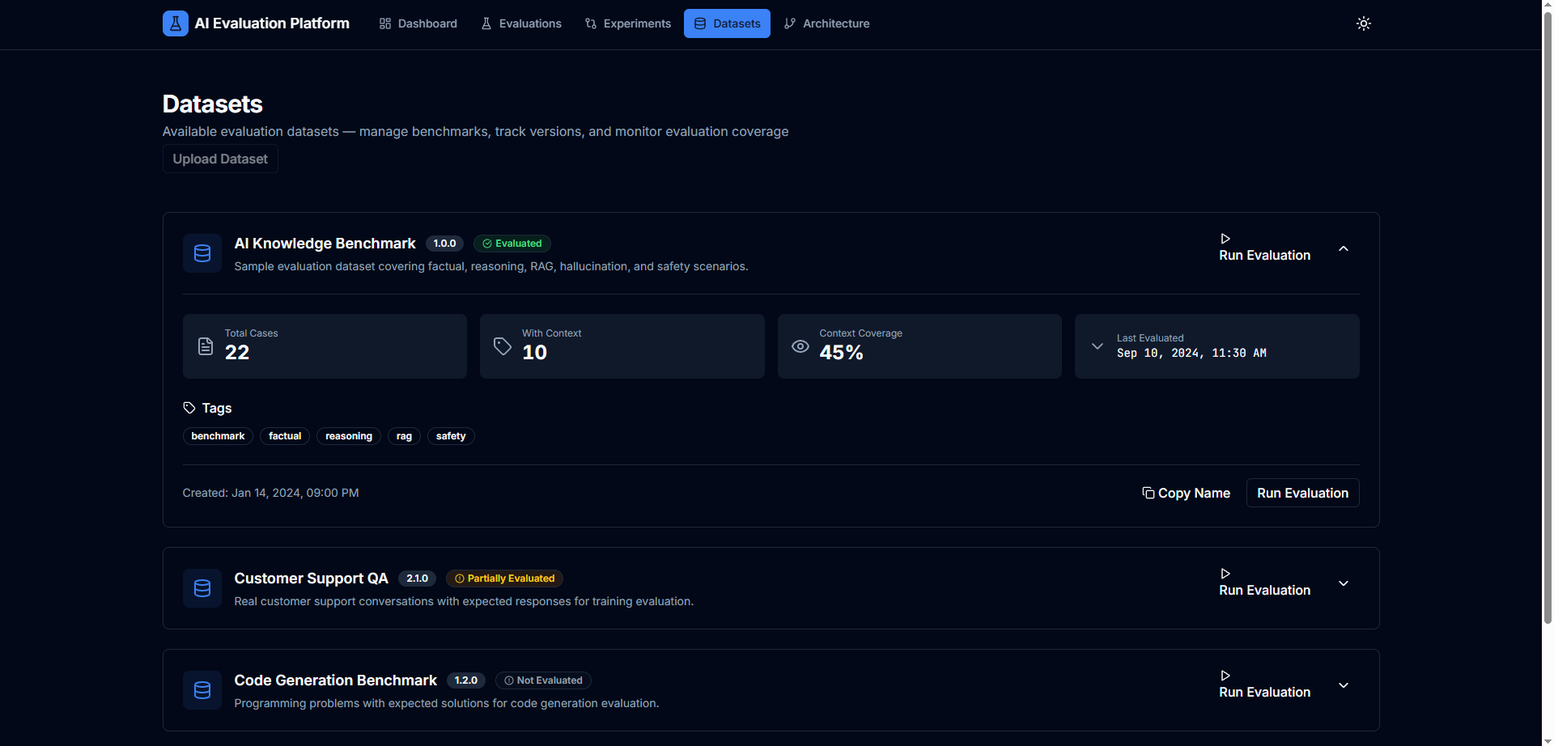
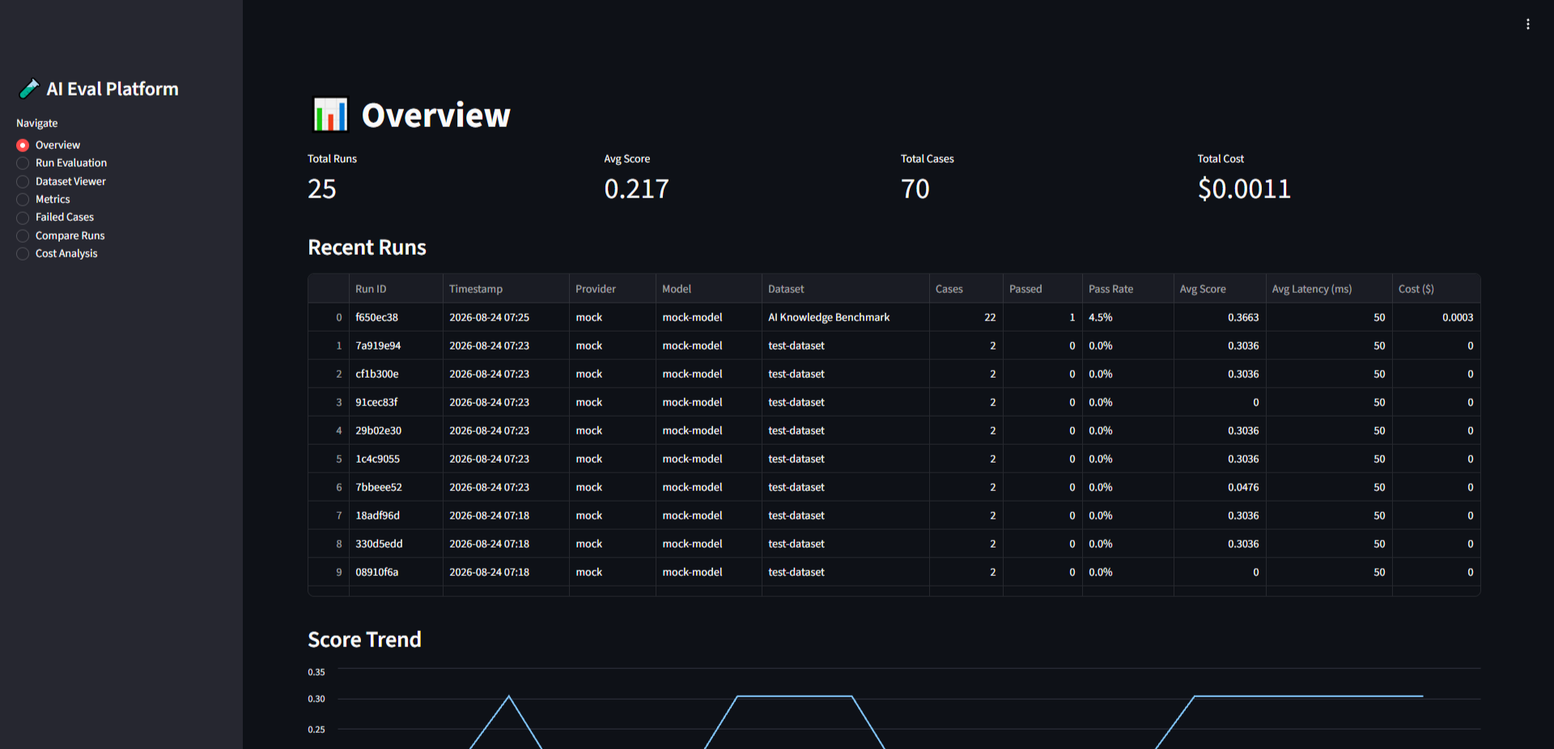
Add files via upload

diff --git a/index.html b/index.html
@@ -773,6 +773,7 @@
         <a href="#evidence">Evidence</a>
         <a href="#about">About me</a>
         <a href="#focus">Where I build</a>
+        <a href="#tech-stack">Tools I use</a>
         <a href="#projects">Selected work</a>
         <a href="#contact">Let’s connect</a>
       </div>
@@ -827,66 +828,12 @@
       </div>
     </section>
 
-    <section id="evidence" class="evidence-section">
-      <div class="container">
-        <div class="section-heading reveal">
-          <h2>Engineering evidence</h2>
-          <p>Signals from running project interfaces, not a list of claims. Each snapshot answers what was measured and where it came from.</p>
-        </div>
-        <div class="evidence-grid">
-          <article class="evidence-card reveal">
-            <div class="evidence-card-header">
-              <div>
-                <h3>AI Evaluation Platform</h3>
-                <p>Dataset-driven runs with score, latency, and cost visibility.</p>
-              </div>
-              <span class="evidence-icon" aria-hidden="true"><i class="fa-solid fa-chart-line"></i></span>
-            </div>
-            <div class="evidence-card-body">
-              <div class="evidence-metrics">
-                <div class="evidence-metric"><strong>25</strong><span>total runs</span></div>
-                <div class="evidence-metric"><strong>70</strong><span>total cases</span></div>
-                <div class="evidence-metric"><strong>0.217</strong><span>average score</span></div>
-                <div class="evidence-metric"><strong>$0.0011</strong><span>total cost</span></div>
-              </div>
-              <p class="evidence-caption"><strong>Visible in the dashboard:</strong> recent runs, provider/model, dataset, pass rate, average latency, score trend, failed cases, comparisons, and cost analysis.</p>
-              <div class="proof-bar"><span><i class="fa-solid fa-database"></i> SQLite history</span><span><i class="fa-solid fa-file-export"></i> JSON / CSV / Markdown</span><span><i class="fa-solid fa-vial"></i> 76 tests passing</span></div>
-            </div>
-          </article>
-          <article class="evidence-card reveal">
-            <div class="evidence-card-header">
-              <div>
-                <h3>Robot Vision System</h3>
-                <p>Browser-based perception with detection, tracking, and telemetry.</p>
-              </div>
-              <span class="evidence-icon" aria-hidden="true"><i class="fa-solid fa-eye"></i></span>
-            </div>
-            <div class="evidence-card-body">
-              <div class="evidence-metrics">
-                <div class="evidence-metric"><strong>35 ms</strong><span>inference latency</span></div>
-                <div class="evidence-metric"><strong>7.3</strong><span>pipeline FPS</span></div>
-                <div class="evidence-metric"><strong>3</strong><span>objects detected</span></div>
-                <div class="evidence-metric"><strong>3</strong><span>objects tracked</span></div>
-              </div>
-              <p class="evidence-caption"><strong>Visible in the live dashboard:</strong> COCO-SSD inference, centroid tracking, confidence scores, robot battery, wheel odometry, and webcam/video input.</p>
-              <div class="proof-bar"><span><i class="fa-solid fa-video"></i> Local video input</span><span><i class="fa-solid fa-wave-square"></i> Real-time browser inference</span><span><i class="fa-solid fa-microchip"></i> Perception prototype</span></div>
-            </div>
-          </article>
-        </div>
-      </div>
-    </section>
-
     <section id="about">
       <div class="container">
         <div class="about-card reveal">
           <div class="section-heading">
             <h2>About me</h2>
             <p>I focus on systems that are useful, testable, and grounded in the realities of real-world deployment.</p>
-          </div>
-          <div class="cover-note reveal">
-            <p class="cover-note-title">Cover note</p>
-            <p>I develop systems that connect emerging technology with practical execution—whether that means a generative AI experience on AWS, a robotics prototype tied to the physical world, or developer tooling designed to improve speed, clarity, and operational confidence across real workflows.</p>
-            <a class="cover-note-link" href="Cover Letter.docx" download="Cover Letter.docx"><i class="fa-solid fa-file-lines"></i> Download full cover letter</a>
           </div>
           <p>I’m a software developer with a strong bias toward practical execution. My work connects <strong>generative AI</strong>, <strong>robotics</strong>, and <strong>developer experience</strong>—from cloud-based AI prototypes to embedded control ideas and agentic tooling built for real engineering workflows.</p>
           <p>Most of my public work focuses on reusable product patterns: Anthropic ecosystem starter kits, AWS-based AI experiences, and experimental interfaces for computer vision, robotics, and control systems designed to support real execution.</p>
@@ -913,23 +860,6 @@
             <h3>Developer tooling</h3>
             <p>Structured workflows for modern engineering teams, including APIs, MCP patterns, automation, and intelligent infrastructure that ships cleanly.</p>
           </article>
-        </div>
-      </div>
-    </section>
-
-    <section id="cover-letter">
-      <div class="container">
-        <div class="about-card reveal">
-          <div class="section-heading">
-            <h2>Cover letter</h2>
-            <p>A concise note for collaborators, teams, and recruiters seeking a clear view of my direction and operating style.</p>
-          </div>
-          <p>I’m interested in roles where I can contribute across <strong>AI systems</strong>, <strong>robotics</strong>, and <strong>applied software development</strong>—especially where practical engineering, thoughtful architecture, and measurable outcomes matter to the business.</p>
-          <p>I bring a product-minded, execution-focused approach to implementation: I turn ideas into functioning prototypes, refine them through real-world feedback, and leave teams with systems that are reliable, maintainable, and ready to scale responsibly with strong operational footing.</p>
-          <div class="contact-actions">
-            <a class="btn btn-primary" href="Cover Letter.docx" download="Cover Letter.docx"><i class="fa-solid fa-file-lines"></i> Download cover letter</a>
-            <a class="btn btn-secondary" href="mailto:lazarogvitolo@gmail.com"><i class="fa-solid fa-paper-plane"></i> Start a conversation</a>
-          </div>
         </div>
       </div>
     </section>
@@ -981,204 +911,73 @@
       </div>
     </section>
 
-    <section id="case-study">
-      <div class="container">
-        <div class="case-study reveal">
-          <div class="case-study-header">
-            <div>
-              <h2>Engineering Case Study</h2>
-              <p class="case-study-subtitle">A concise engineering case study: problem, architecture, evaluation method, results, and decision.</p>
-            </div>
-            <a class="case-study-link" href="https://github.com/Lazaro549/ai-evaluation-platform" target="_blank" rel="noreferrer noopener">Public implementation on GitHub <i class="fa-solid fa-arrow-up-right-from-square"></i></a>
-          </div>
-
-          <div class="case-grid">
-            <div class="case-body">
-              <h3>01 — Problem</h3>
-              <p>LLM systems often look correct in demos but fail on consistency, relevance, latency, and cost. This project addresses that by making evaluation part of the system itself: datasets, provider abstraction, metrics, reports, persistence, and comparison are all implemented in the repository.</p>
-
-              <h3>02 — Architecture</h3>
-              <p>The repository implements a dataset-driven evaluation pipeline. Input cases are loaded from JSON/CSV, sent through a provider abstraction, scored with deterministic and judge-based metrics, stored in SQLite, and exposed through FastAPI and a Streamlit dashboard.</p>
-
-              <div class="architecture-wrap">
-                <div class="architecture-label">Architecture derived from the current public implementation</div>
-                <div class="architecture-diagram" aria-label="AI Evaluation Platform architecture diagram">
-                  <div class="diagram-node">Dataset</div>
-                  <div class="diagram-arrow">→</div>
-                  <div class="diagram-node is-strong">Evaluation Runner</div>
-                  <div class="diagram-arrow">→</div>
-                  <div class="diagram-node">Model Provider</div>
-                  <div class="diagram-arrow">→</div>
-                  <div class="diagram-node">Metrics</div>
-                  <div class="diagram-arrow">→</div>
-                  <div class="diagram-node is-strong">Results</div>
-                  <div class="diagram-arrow">→</div>
-                  <div class="diagram-node">Reports</div>
-                  <div class="diagram-arrow">→</div>
-                  <div class="diagram-node">FastAPI API</div>
-                  <div class="diagram-arrow">→</div>
-                  <div class="diagram-node">Dashboard</div>
-                </div>
-                <div class="diagram-txt">The system begins with dataset input, evaluates model output through provider abstraction, scores it with deterministic and judge-based metrics, stores results, and exposes them through reports and dashboard/API access.</div>
-              </div>
-
-              <h3>03 — Engineering Decisions</h3>
-              <div class="decision-list">
-                <article class="decision-item">
-                  <h4>Provider abstraction</h4>
-                  <p><strong>Decision:</strong> Model access is separated behind a provider interface.</p>
-                  <p><strong>Why:</strong> The runner stays the same whether the underlying system is MockProvider, OpenAI, or Bedrock.</p>
-                  <p><strong>Trade-off:</strong> Provider-specific adapters still exist, so the abstraction handles the shared interface but not every API difference.</p>
-                </article>
-                <article class="decision-item">
-                  <h4>SQLite for local persistence</h4>
-                  <p><strong>Decision:</strong> Evaluation runs are stored in SQLite.</p>
-                  <p><strong>Why:</strong> This keeps the project reproducible and easy to inspect without adding a separate database service.</p>
-                  <p><strong>Trade-off:</strong> It is suitable for local evaluation, not for large multi-user production workloads.</p>
-                </article>
-                <article class="decision-item">
-                  <h4>Deterministic + judge-based evaluation</h4>
-                  <p><strong>Decision:</strong> The codebase separates deterministic metrics from LLM-as-a-judge metrics.</p>
-                  <p><strong>Why:</strong> Exact checks stay transparent, while semantic evaluation can be added where needed.</p>
-                  <p><strong>Trade-off:</strong> Deterministic metrics do not capture nuance, and judge-based metrics depend on the judge model.</p>
-                </article>
-                <article class="decision-item">
-                  <h4>Docker + CI</h4>
-                  <p><strong>Decision:</strong> The project includes Docker support and a CI workflow.</p>
-                  <p><strong>Why:</strong> That makes local runs and basic automation easier to repeat.</p>
-                  <p><strong>Trade-off:</strong> It supports reproducibility, but it is not a full production deployment or observability stack.</p>
-                </article>
-              </div>
-
-              <h3>04 — Evaluation</h3>
-              <p>I verified the repository locally with the bundled dataset and the existing CLI. The platform executed both the deterministic metric path and the judge-based metric path through the same runner, and it wrote JSON, CSV, and Markdown reports for each run.</p>
-
-              <h3>05 — Result</h3>
-              <p>Verified local run results:</p>
-              <ul>
-                <li><strong>Deterministic metrics path:</strong> 22 cases processed, 22 passed, average score 0.6198, average latency 50 ms, estimated cost $0.0003.</li>
-                <li><strong>Judge-based metrics path:</strong> executed successfully with the mock judge, but returned average score 0.0000. That result is evidence that the pipeline works; it is not evidence of semantic quality from a real judge model.</li>
-              </ul>
-
-              <h3>06 — Limitations &amp; Next Steps</h3>
-              <ul>
-                <li><strong>Local persistence:</strong> SQLite is appropriate for local evaluation, not for large multi-user production workloads.</li>
-                <li><strong>Dataset size:</strong> The sample dataset is small and useful for reproducibility, but it does not represent a large benchmark suite.</li>
-                <li><strong>Judge dependency:</strong> LLM-as-a-judge metrics are only as reliable as the judge model and prompt design.</li>
-                <li><strong>Next steps:</strong> larger dataset, embedding-based semantic similarity, confidence intervals, regression tracking in CI, and a production-capable datastore.</li>
-              </ul>
-
-              <h3>07 — What I Learned</h3>
-              <ul>
-                <li>Evaluation has to be designed with the application, not added at the end as a checklist.</li>
-                <li>Provider abstraction reduces the cost of switching models and providers.</li>
-                <li>Reproducible datasets, reports, and local persistence make engineering decisions easier to justify.</li>
-              </ul>
-            </div>
-
-            <aside class="case-evidence">
-              <h3>Evidence snapshot</h3>
-              <table class="evidence-table">
-                <tr>
-                  <th>Architecture</th>
-                  <td>Modular API, provider layer, metrics engine, SQLite, reports, dashboard</td>
-                </tr>
-                <tr>
-                  <th>Evaluation</th>
-                  <td>Verified local execution on 22 sample cases; deterministic path completed successfully; judge-based path executed with MockProvider</td>
-                </tr>
-                <tr>
-                  <th>Testing</th>
-                  <td>76 pytest tests passed locally</td>
-                </tr>
-                <tr>
-                  <th>Deployment</th>
-                  <td>Dockerfile and docker-compose.yml present</td>
-                </tr>
-                <tr>
-                  <th>Reproducibility</th>
-                  <td>Sample dataset, offline mock provider, JSON/CSV/Markdown reports, SQLite persistence</td>
-                </tr>
-                <tr>
-                  <th>Observability</th>
-                  <td>Latency, token counts, and estimated cost are part of the evaluation output</td>
-                </tr>
-              </table>
-            </aside>
-          </div>
-        </div>
-      </div>
-    </section>
-
     <section id="projects">
-      <div class="container">
-        <div class="section-heading reveal">
-          <h2>Selected work</h2>
-          <p>I focus on projects where technical depth, practical implementation, and credible evidence converge—particularly in evaluation systems, cloud AI, and computer vision that support informed decision-making.</p>
-        </div>
+              <div class="container">
+                <div class="section-heading reveal">
+                  <h2>Selected work</h2>
+                  <p>I focus on projects where technical depth, practical implementation, and credible evidence converge—particularly in evaluation systems, cloud AI, and computer vision that support informed decision-making.</p>
+                </div>
 
-        <div class="project-highlight">
-          <article class="project-card reveal">
-            <div class="flagship-badge"><i class="fa-solid fa-magnifying-glass"></i> Deep dive</div>
-            <div class="pill"><i class="fa-solid fa-scale-balanced"></i> AI evaluation</div>
-            <img class="project-evidence" src="evidences/AI%20Evaluation%20Platform.png" alt="AI Evaluation Platform dashboard evidence" />
-            <h3>ai-evaluation-platform</h3>
-            <p><strong>Why this matters:</strong> Shows a structured, repeatable way to evaluate LLM systems with reusable metrics, clear reporting, and a reproducible local workflow that supports stronger engineering decisions.</p>
-            <p>The repository is structured around dataset-driven benchmarking, provider abstraction, metrics, reporting, SQLite persistence, FastAPI access, and a Streamlit dashboard.</p>
-            <p class="project-proof"><strong>Evidence:</strong> the running dashboard exposes 25 evaluation runs, 70 cases, average score, total cost, pass rate, latency, score trends, and run comparison.</p>
-            <div class="chip-list">
-              <span>FastAPI</span>
-              <span>Streamlit</span>
-              <span>SQLite</span>
-              <span>pytest</span>
-            </div>
-            <a class="project-link" href="https://github.com/Lazaro549/ai-evaluation-platform" target="_blank" rel="noreferrer noopener">View repository <i class="fa-solid fa-arrow-up-right-from-square"></i></a>
-          </article>
+                <div class="project-highlight">
+                  <article class="project-card reveal">
+                    <div class="flagship-badge"><i class="fa-solid fa-magnifying-glass"></i> Deep dive</div>
+                    <div class="pill"><i class="fa-solid fa-scale-balanced"></i> AI evaluation</div>
+                    <img class="project-evidence" src="evidences/AI%20Evaluation%20Platform.png" alt="AI Evaluation Platform dashboard evidence" />
+                    <h3>ai-evaluation-platform</h3>
+                    <p><strong>Why this matters:</strong> Shows a structured, repeatable way to evaluate LLM systems with reusable metrics, clear reporting, and a reproducible local workflow that supports stronger engineering decisions.</p>
+                    <p>The repository is structured around dataset-driven benchmarking, provider abstraction, metrics, reporting, SQLite persistence, FastAPI access, and a Streamlit dashboard.</p>
+                    <div class="chip-list">
+                      <span>FastAPI</span>
+                      <span>Streamlit</span>
+                      <span>SQLite</span>
+                      <span>pytest</span>
+                    </div>
+                    <a class="project-link" href="https://github.com/Lazaro549/ai-evaluation-platform" target="_blank" rel="noreferrer noopener">View repository <i class="fa-solid fa-arrow-up-right-from-square"></i></a>
+                  </article>
 
-          <article class="project-card reveal">
-            <div class="pill"><i class="fa-solid fa-eye"></i> Robotics perception</div>
-            <img class="project-evidence" src="evidences/Robot%20Vision%20System.png" alt="Robot Vision System dashboard evidence" />
-            <h3>robot-vision-dashboard</h3>
-            <p><strong>Why this matters:</strong> Shows a perception pipeline rather than an isolated model demo: video input flows through browser inference, tracking, telemetry, and a live dashboard.</p>
-            <p class="project-proof"><strong>Evidence:</strong> the running interface reports 35 ms inference latency, 7.3 FPS, 3 detected objects, and 3 tracked objects.</p>
-            <div class="meta">COCO-SSD • centroid tracking • TensorFlow.js</div>
-            <a class="project-link" href="https://github.com/Lazaro549/robot-vision-dashboard" target="_blank" rel="noreferrer noopener">View repository <i class="fa-solid fa-arrow-up-right-from-square"></i></a>
-          </article>
-        </div>
+                  <article class="project-card reveal">
+                    <div class="pill"><i class="fa-solid fa-flask"></i> AI engineering</div>
+                    <img src="evidences/AI Engineering Lab.png" alt="">
+                    <h3>ai-engineering-lab</h3>
+                    <p><strong>Why this matters:</strong> Connects AI projects through a measurable workflow for building, evaluating, benchmarking, and improving systems, with clear separation between measured and illustrative results.</p>
+                    <div class="meta">TypeScript • AI evaluation • benchmarking</div>
+                    <a class="project-link" href="https://github.com/Lazaro549/ai-engineering-lab" target="_blank" rel="noreferrer noopener">View repository <i class="fa-solid fa-arrow-up-right-from-square"></i></a>
+                  </article>
+                </div>
 
-        <div class="project-grid">
-          <article class="project-card reveal">
-            <div class="pill"><i class="fa-solid fa-cloud"></i> AWS AI</div>
-            <img class="project-evidence" src="evidences/AWS-AI-Generative.png" alt="AWS AI Generative project evidence" />
-            <h3>AWS AI Generative</h3>
-            <p><strong>Why this matters:</strong> Shows practical cloud AI architecture with Bedrock integration, serverless patterns, and retrieval-oriented workflows. The repository is presented honestly as architecture and implementation, without unverified benchmark claims.</p>
-            <div class="meta">Python • Bedrock • Lambda • SAM</div>
-            <a class="project-link" href="https://github.com/Lazaro549/AWS-AI-Generative" target="_blank" rel="noreferrer noopener">View repository <i class="fa-solid fa-arrow-up-right-from-square"></i></a>
-          </article>
-          <article class="project-card reveal">
-            <div class="pill"><i class="fa-solid fa-robot"></i> Anthropic Academy</div>
-            <h3>claude-api-starter</h3>
-            <p>A practical Python starter kit for Claude API patterns such as prompts, conversation state, streaming, tool use, and agent loops.</p>
-            <a class="project-link" href="https://github.com/Lazaro549/claude-api-starter" target="_blank" rel="noreferrer noopener">View repository <i class="fa-solid fa-arrow-up-right-from-square"></i></a>
-          </article>
-          <article class="project-card reveal">
-            <div class="pill"><i class="fa-solid fa-diagram-project"></i> MCP</div>
-            <img class="project-evidence" src="evidences/mcp-advanced-starter.png" alt="MCP advanced starter project evidence" />
-            <h3>mcp-advanced-starter</h3>
-            <p>An advanced starter for Model Context Protocol concepts, including transport, roots, elicitation, and server-initiated sampling for richer agent workflows.</p>
-            <a class="project-link" href="https://github.com/Lazaro549/mcp-advanced-starter" target="_blank" rel="noreferrer noopener">View repository <i class="fa-solid fa-arrow-up-right-from-square"></i></a>
-          </article>
-          <article class="project-card reveal">
-            <div class="pill"><i class="fa-solid fa-terminal"></i> Developer tooling</div>
-            <img class="project-evidence" src="evidences/claude-code-starter.png" alt="Claude Code Starter project evidence" />
-            <h3>Claude Code Starter</h3>
-            <p>A practical starter for integrating Claude Code into an executable developer workflow, with a CLI-first structure that supports automation, repeatable tasks, and cleaner engineering practices.</p>
-            <div class="meta">CLI • automation • developer workflow</div>
-            <a class="project-link" href="https://github.com/Lazaro549/claude-code-starter" target="_blank" rel="noreferrer noopener">View repository <i class="fa-solid fa-arrow-up-right-from-square"></i></a>
-          </article>
-        </div>
-      </div>
-    </section>
+                <div class="project-grid">
+                  <article class="project-card reveal">
+                    <div class="pill"><i class="fa-solid fa-diagram-project"></i> MCP</div>
+                    <img class="project-evidence" src="evidences/mcp-advanced-starter.png" alt="MCP advanced starter project evidence" />
+                    <h3>mcp-advanced-starter</h3>
+                    <p>An advanced starter for Model Context Protocol concepts, including transport, roots, elicitation, and server-initiated sampling for richer agent workflows.</p>
+                    <a class="project-link" href="https://github.com/Lazaro549/mcp-advanced-starter" target="_blank" rel="noreferrer noopener">View repository <i class="fa-solid fa-arrow-up-right-from-square"></i></a>
+                  </article>
+                  <article class="project-card reveal">
+                    <div class="pill"><i class="fa-solid fa-eye"></i> Robotics perception</div>
+                    <img class="project-evidence" src="evidences/Robot%20Vision%20System.png" alt="Robot Vision System dashboard evidence" />
+                    <h3>robot-vision-dashboard</h3>
+                    <p><strong>Why this matters:</strong> Shows a perception pipeline rather than an isolated model demo: video input flows through browser inference, tracking, telemetry, and a live dashboard.</p>
+                    <div class="meta">COCO-SSD • centroid tracking • TensorFlow.js</div>
+                    <a class="project-link" href="https://github.com/Lazaro549/robot-vision-dashboard" target="_blank" rel="noreferrer noopener">View repository <i class="fa-solid fa-arrow-up-right-from-square"></i></a>
+                  </article>
+                  <article class="project-card reveal">
+                    <div class="pill"><i class="fa-solid fa-chart-line"></i> E-commerce optimization</div>
+                    <img src="evidences/🚀 AI Mercado Libre Optimizer.png" alt="">
+                    <h3>The-AI-s-Mercado-Libre-in-develop</h3>
+                    <p>Analyzes Mercado Libre product and advertising performance, surfaces profitability issues, and ranks products with actionable scale, optimize, or pause recommendations.</p>
+                    <div class="meta">Python • Streamlit • Mercado Ads metrics</div>
+                    <a class="project-link" href="https://github.com/Lazaro549/The-AI-s-Mercado-Libre-in-develop" target="_blank" rel="noreferrer noopener">View repository <i class="fa-solid fa-arrow-up-right-from-square"></i></a>
+                  </article>
+                  <article class="project-card reveal">
+                    <div class="pill"><i class="fa-solid fa-robot"></i> Anthropic Academy</div>
+                    <h3>claude-api-starter</h3>
+                    <p>A practical Python starter kit for Claude API patterns such as prompts, conversation state, streaming, tool use, and agent loops.</p>
+                    <a class="project-link" href="https://github.com/Lazaro549/claude-api-starter" target="_blank" rel="noreferrer noopener">View repository <i class="fa-solid fa-arrow-up-right-from-square"></i></a>
+                  </article>
+                </div>
+              </div>
+            </section>
 
     <section id="contact">
       <div class="container">
